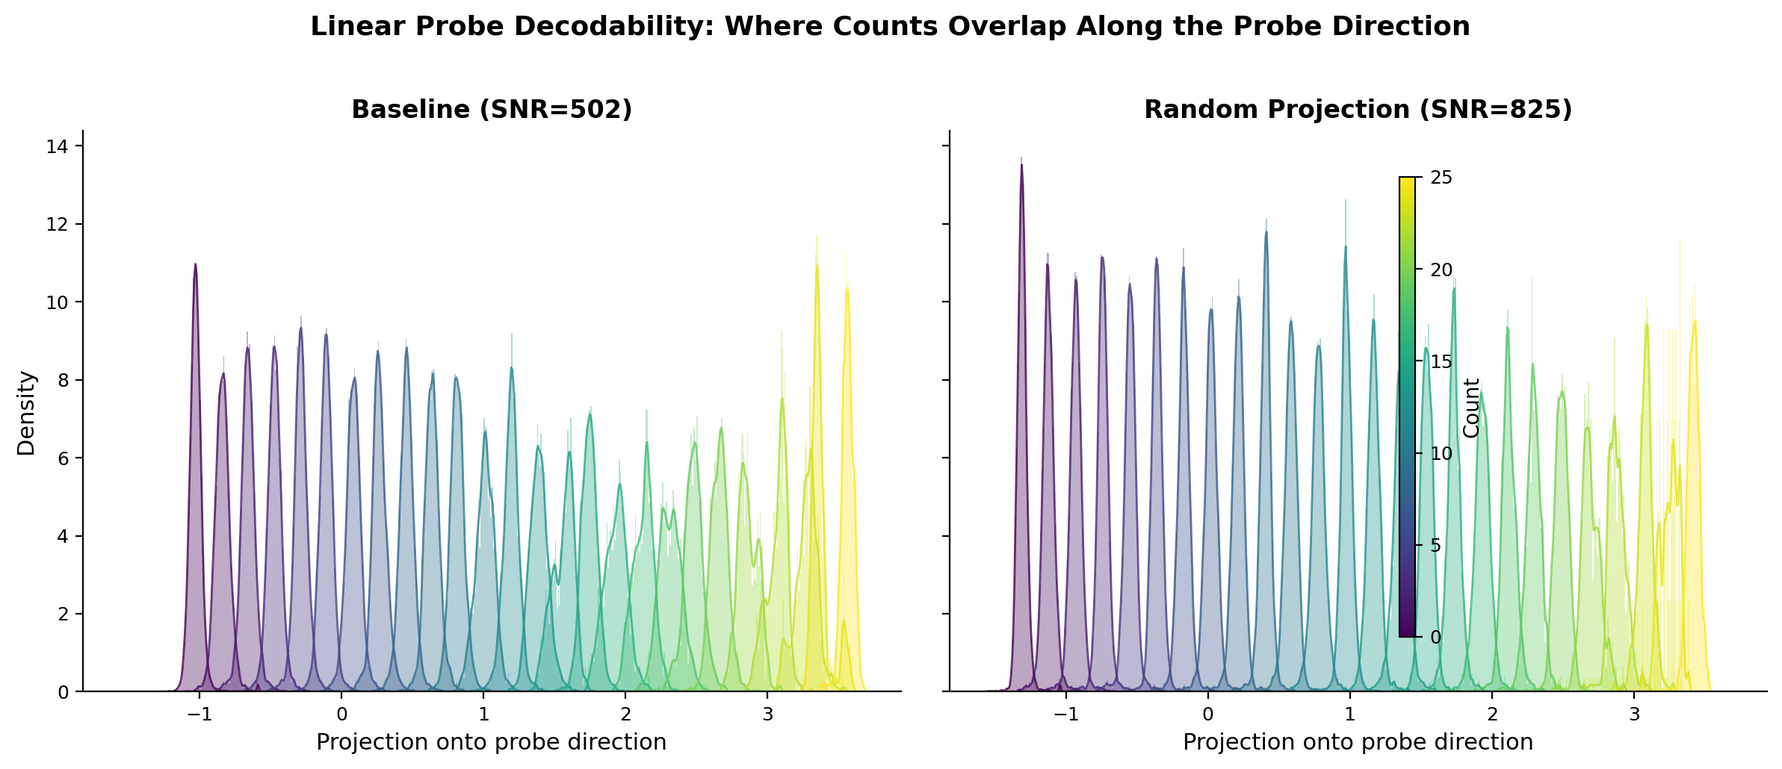
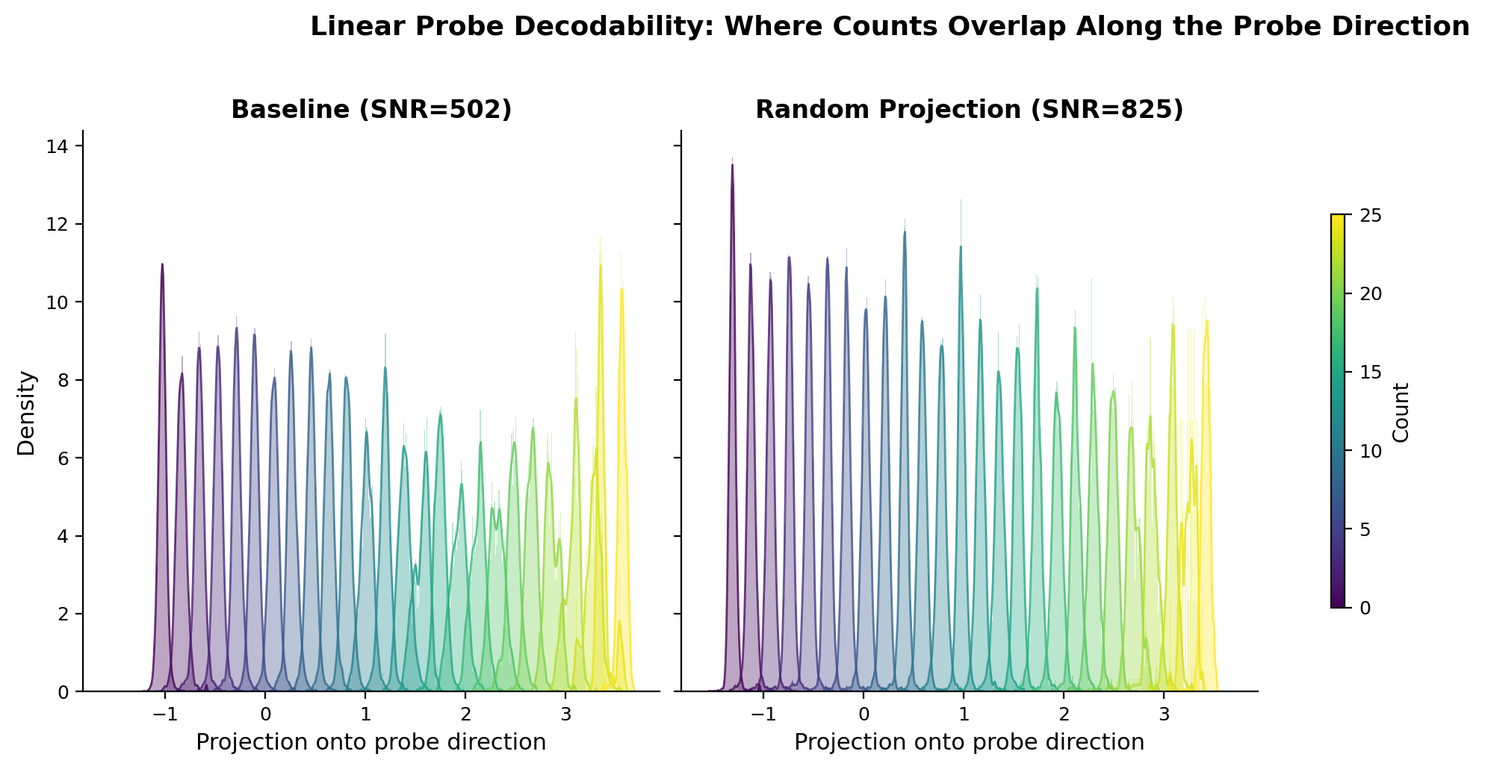
fix: move color bar outside plot area in probe figures
The Count color bar was overlapping data in probe_histograms and
probe_vs_noise figures. Reserve 12% right margin via tight_layout
rect and increase colorbar pad. Also includes external README edits.

diff --git a/scripts/visualize_probe_decodability.py b/scripts/visualize_probe_decodability.py
@@ -159,15 +159,15 @@ def fig1_probe_histograms(baseline, randproj, output_dir):
     for ax in [ax_b, ax_r]:
         ax.set_xlim(all_proj.min() - margin, all_proj.max() + margin)
 
-    # Colorbar
-    sm = plt.cm.ScalarMappable(cmap='viridis', norm=mcolors.Normalize(0, 25))
-    sm.set_array([])
-    cbar = fig.colorbar(sm, ax=[ax_b, ax_r], shrink=0.8, pad=0.02, aspect=30)
-    cbar.set_label('Count', fontsize=10)
-
     fig.suptitle('Linear Probe Decodability: Where Counts Overlap Along the Probe Direction',
                  fontsize=13, fontweight='bold', y=1.02)
-    plt.tight_layout()
+    plt.tight_layout(rect=[0, 0, 0.88, 1])
+
+    # Colorbar — placed after tight_layout, with enough pad to sit outside plots
+    sm = plt.cm.ScalarMappable(cmap='viridis', norm=mcolors.Normalize(0, 25))
+    sm.set_array([])
+    cbar = fig.colorbar(sm, ax=[ax_b, ax_r], shrink=0.7, pad=0.05, aspect=30)
+    cbar.set_label('Count', fontsize=10)
 
     for ext in ['png', 'pdf']:
         fig.savefig(output_dir / f'probe_histograms.{ext}',
@@ -219,15 +219,15 @@ def fig2_probe_vs_noise(baseline, randproj, output_dir):
         ax.set_xlim(all_x.min() - x_margin, all_x.max() + x_margin)
         ax.set_ylim(all_y.min() - y_margin, all_y.max() + y_margin)
 
-    # Colorbar
-    sm = plt.cm.ScalarMappable(cmap='viridis', norm=mcolors.Normalize(0, 25))
-    sm.set_array([])
-    cbar = fig.colorbar(sm, ax=[ax_b, ax_r], shrink=0.8, pad=0.02, aspect=30)
-    cbar.set_label('Count', fontsize=10)
-
     fig.suptitle('Count Signal vs Noise: Factorized Columns (right) vs Entangled Clouds (left)',
                  fontsize=13, fontweight='bold', y=1.02)
-    plt.tight_layout()
+    plt.tight_layout(rect=[0, 0, 0.88, 1])
+
+    # Colorbar — placed after tight_layout, with enough pad to sit outside plots
+    sm = plt.cm.ScalarMappable(cmap='viridis', norm=mcolors.Normalize(0, 25))
+    sm.set_array([])
+    cbar = fig.colorbar(sm, ax=[ax_b, ax_r], shrink=0.7, pad=0.05, aspect=30)
+    cbar.set_label('Count', fontsize=10)
 
     for ext in ['png', 'pdf']:
         fig.savefig(output_dir / f'probe_vs_noise.{ext}',

diff --git a/README.md b/README.md
@@ -9,6 +9,7 @@ We built a simple 2D world where a bot picks up blobs and places them on a grid.
 Inside the model's 512-dimensional hidden state, a **number line emerges**.
 
 Not approximately. A geometrically precise 1D arc where each position corresponds to a count, verified with tools from pure mathematics:
+
 - **Persistent homology** confirms it's a line (not a loop, not a surface) &mdash; Betti numbers &beta;<sub>0</sub>=1, &beta;<sub>1</sub>=0
 - **Geodesic analysis** confirms the spacing is uniform (like marks on a ruler) &mdash; arc-length R&sup2;=0.998
 - **Representational similarity analysis** confirms the ordering is correct &mdash; RSA=0.982
@@ -31,27 +32,27 @@ Yes. A linear probe (a single matrix multiply plus bias) applied to the 512-dime
 
 - **Topology is correct**: Persistent homology gives &beta;<sub>0</sub>=1 (one connected component) and &beta;<sub>1</sub>=0 (no loops). This is the topology of a line segment, not a circle, not a surface, not a disconnected set.
 - **Spacing is uniform**: The geodesic distance between consecutive count centroids is constant. This isn't just "the centroids are in the right order" &mdash; the distance from count 5 to count 6 is the same as the distance from count 20 to count 21. Arc-length R&sup2;=0.998 across 6 independent training seeds.
-- **The metric is novel**: We developed Geodesic Homogeneity Error (GHE) to measure this properly. Standard Euclidean metrics reported high error because the manifold curves through 512-dimensional space. GHE follows the curve and reveals uniform spacing. Mean GHE=0.329&plusmn;0.027 across 6 seeds (threshold: <0.5).
+- **The metric is novel**: We developed Geodesic Homogeneity Error (GHE) to measure this properly. Standard Euclidean metrics reported high error because the manifold curves through 512-dimensional space. GHE follows the curve and reveals approximately uniform spacing. Mean GHE=0.329&plusmn;0.027 across 6 seeds (threshold: <0.5).
 
 ## Robustness: We Tried to Break It
 
-Every row in this table is a separate training run (200K steps, ~4 hours on an RTX 4090). Every single one produced a valid number line.
+Every row in this table is a separate training run (50K–300K steps). Every single one produced a valid number line.
 
-| Condition | What we changed | GHE | Topology | RSA |
-|:---|:---|:---:|:---:|:---:|
-| **Grid baseline** (6 seeds) | Nothing &mdash; control condition | 0.329&plusmn;0.027 | &beta;<sub>0</sub>=1, &beta;<sub>1</sub>=0 | 0.982 |
-| **Line arrangement** | Blobs start in a line instead of scattered | 0.288 | &beta;<sub>0</sub>=1, &beta;<sub>1</sub>=0 | 0.982 |
-| **Scatter arrangement** | Blobs start at random positions | 0.334 | &beta;<sub>0</sub>=1, &beta;<sub>1</sub>=0 | 0.980 |
-| **Circle arrangement** | Blobs start in a ring | 0.394 | &beta;<sub>0</sub>=1, &beta;<sub>1</sub>=0 | 0.978 |
-| **No count signal** | Masked the count from observations | 0.336&plusmn;0.091 | &beta;<sub>0</sub>=1, &beta;<sub>1</sub>=0 | 0.981 |
-| **No slots + no count** | Masked both grid assignments and count | 0.344&plusmn;0.045 | &beta;<sub>0</sub>=1, &beta;<sub>1</sub>=0 | 0.981 |
-| **Shuffled + starved** | Scrambled blob identities every frame, masked grid and count | 0.367&plusmn;0.081 | &beta;<sub>0</sub>=1, &beta;<sub>1</sub>=0 | 0.985 |
-| **Random projection** (3 seeds) | Multiplied observations by a random orthogonal matrix | 0.326&plusmn;0.063 | &beta;<sub>0</sub>=1, &beta;<sub>1</sub>=0 | 0.983 |
-| **Random permutation** (3 seeds) | Shuffled the order of observation dimensions | 0.346&plusmn;0.052 | &beta;<sub>0</sub>=1, &beta;<sub>1</sub>=0 | 0.981 |
-| **LSTM** | Replaced DreamerV3 with a simple LSTM | 0.379 | &beta;<sub>0</sub>=1, &beta;<sub>1</sub>=0 | 0.980 |
-| **Embodied agent** | Agent learns to steer and gather autonomously | 0.443 | &beta;<sub>0</sub>=1, &beta;<sub>1</sub>=0 | 0.806 |
-| **Multi-dim D=2** | Gathering in 2D (mixed training across 2D-5D) | 0.439 | &beta;<sub>0</sub>=1, &beta;<sub>1</sub>=0 | 0.943 |
-| **Multi-dim D=3** | Gathering in 3D | 0.325 | &beta;<sub>0</sub>=1, &beta;<sub>1</sub>=0 | 0.954 |
+| Condition                        | What we changed                                              |        GHE         |                  Topology                  |  RSA  |
+| :------------------------------- | :----------------------------------------------------------- | :----------------: | :----------------------------------------: | :---: |
+| **Grid baseline** (6 seeds)      | Nothing &mdash; control condition                            | 0.329&plusmn;0.027 | &beta;<sub>0</sub>=1, &beta;<sub>1</sub>=0 | 0.982 |
+| **Line arrangement**             | Blobs start in a line instead of scattered                   |       0.288        | &beta;<sub>0</sub>=1, &beta;<sub>1</sub>=0 | 0.982 |
+| **Scatter arrangement**          | Blobs start at random positions                              |       0.334        | &beta;<sub>0</sub>=1, &beta;<sub>1</sub>=0 | 0.980 |
+| **Circle arrangement**           | Blobs start in a ring                                        |       0.394        | &beta;<sub>0</sub>=1, &beta;<sub>1</sub>=0 | 0.978 |
+| **No count signal**              | Masked the count from observations                           | 0.336&plusmn;0.091 | &beta;<sub>0</sub>=1, &beta;<sub>1</sub>=0 | 0.981 |
+| **No slots + no count**          | Masked both grid assignments and count                       | 0.344&plusmn;0.045 | &beta;<sub>0</sub>=1, &beta;<sub>1</sub>=0 | 0.981 |
+| **Shuffled + starved**           | Scrambled blob identities every frame, masked grid and count | 0.367&plusmn;0.081 | &beta;<sub>0</sub>=1, &beta;<sub>1</sub>=0 | 0.985 |
+| **Random projection** (3 seeds)  | Multiplied observations by a random orthogonal matrix        | 0.326&plusmn;0.063 | &beta;<sub>0</sub>=1, &beta;<sub>1</sub>=0 | 0.983 |
+| **Random permutation** (3 seeds) | Shuffled the order of observation dimensions                 | 0.346&plusmn;0.052 | &beta;<sub>0</sub>=1, &beta;<sub>1</sub>=0 | 0.981 |
+| **LSTM**                         | Replaced DreamerV3 with a simple LSTM                        |       0.379        | &beta;<sub>0</sub>=1, &beta;<sub>1</sub>=0 | 0.980 |
+| **Embodied agent**               | Agent learns to steer and gather autonomously                |       0.443        | &beta;<sub>0</sub>=1, &beta;<sub>1</sub>=0 | 0.806 |
+| **Multi-dim D=2**                | Gathering in 2D (mixed training across 2D-5D)                |       0.439        | &beta;<sub>0</sub>=1, &beta;<sub>1</sub>=0 | 0.943 |
+| **Multi-dim D=3**                | Gathering in 3D                                              |       0.325        | &beta;<sub>0</sub>=1, &beta;<sub>1</sub>=0 | 0.954 |
 
 The manifold is not an accident. It's the natural representation for a system that needs to predict what happens when objects are gathered one at a time.
 
@@ -61,16 +62,14 @@ This was the most unexpected finding of the project.
 
 We multiplied the 82-dimensional observation vector by a random orthogonal matrix before feeding it to the model. This preserves all pairwise distances between observations (it's a rotation in high-dimensional space) but destroys all spatial semantics &mdash; dimension 1 is no longer "bot x-position," it's a meaningless blend of everything.
 
-The model should have performed identically. Information theory says the task is the same. Instead:
-
 **The random projection model performed dramatically better at real-time count tracking.**
 
-| Metric | Baseline | Random Projection |
-|:---|:---:|:---:|
-| GHE (manifold quality) | 0.329 | 0.326 |
-| Probe SNR (signal-to-noise) | 502 | 825 |
-| Live probe accuracy | 56% exact | 99% exact |
-| PaCMAP R&sup2; (multi-scale structure) | 0.651 | 0.976 |
+| Metric                                 | Baseline  | Random Projection |
+| :------------------------------------- | :-------: | :---------------: |
+| GHE (manifold quality)                 |   0.329   |       0.326       |
+| Probe SNR (signal-to-noise)            |    502    |        825        |
+| Live probe accuracy                    | 56% exact |     99% exact     |
+| PaCMAP R&sup2; (multi-scale structure) |   0.651   |       0.976       |
 
 The standard evaluation metrics (GHE, topology, RSA) showed no difference. They declared the two models equivalent. Only when we built a real-time visualization and watched the models actually predict did we discover the gap. The baseline model tracked counts with a noticeable wobble &mdash; it would lag behind transitions and oscillate between adjacent counts. The random projection model snapped to each count precisely.
 
@@ -106,7 +105,7 @@ We parameterized the world so the bot gathers blobs in 2D, 3D, 4D, or 5D space, 
 
 **The neurons are completely different.** Linear probe transfer between dimensionalities fails catastrophically (mean R&sup2; = -0.27). Hidden state anatomy reveals the model uses entirely different neurons to count in each dimensionality &mdash; dimension 503 for 2D, dimension 115 for 3D, dimension 188 for 4D, dimension 240 for 5D. Zero overlap in the top-20 counting dimensions across any pair.
 
-**The geometry is identical.** Gromov-Wasserstein distance (a metric that compares the *shape* of two manifolds without requiring point correspondence) reveals that the counting structures at different dimensionalities are geometrically indistinguishable &mdash; cross-dimensional GW distances (0.004) are actually *below* the self-comparison baseline (0.010). The model builds the same ruler in different corners of its hidden state.
+**The geometry is identical.** Gromov-Wasserstein distance (a metric that compares the _shape_ of two manifolds without requiring point correspondence) reveals that the counting structures at different dimensionalities are geometrically indistinguishable &mdash; cross-dimensional GW distances (0.004) are actually _below_ the self-comparison baseline (0.010). The model builds the same ruler in different corners of its hidden state.
 
 The concept is dimension-invariant. The implementation is not.
 
@@ -114,28 +113,28 @@ The concept is dimension-invariant. The implementation is not.
 
 What does "+1" look like inside the model?
 
-We characterized the step vectors &mdash; the change in hidden state when count goes from *n* to *n*+1 &mdash; across the entire manifold. Key findings:
+We characterized the step vectors &mdash; the change in hidden state when count goes from _n_ to _n_+1 &mdash; across the entire manifold. Key findings:
 
 - **It's not a single direction.** The +1 operation rotates through 512-dimensional space, requiring 11 principal components to capture 90% of its variance. The step from 0&rarr;1 and the step from 24&rarr;25 point in nearly opposite directions (cosine similarity near zero).
-- **But the step sizes are uniform.** Despite rotating through high-dimensional space, every +1 step covers the same geodesic distance. The manifold has constant speed but varying curvature &mdash; like a road that turns but maintains a steady 60 mph.
-- **The model anticipates.** The hidden state begins shifting toward the next count 2-50 timesteps *before* a blob actually lands on the grid. The anticipation interval is proportional to the blob's travel distance. The model predicts counting events before they happen.
+- **But the step sizes are uniform.** Despite rotating through high-dimensional space, every +1 step covers the same geodesic distance. The manifold has constant speed but varying curvature.
+- **The model anticipates.** The hidden state begins shifting toward the next count 2-50 timesteps _before_ a blob actually lands on the grid. The anticipation interval is proportional to the blob's travel distance. The model predicts counting events before they happen.
 - **The prior knows the count.** The model's internal prediction (before seeing the current observation) achieves R&sup2;=0.956 on count. The counting manifold lives in the recurrent dynamics &mdash; the model's accumulated memory &mdash; not in the current observation. The observation barely adds information. The model has internalized counting so thoroughly that it rarely needs to check.
 
 ## The Measurement Battery
 
 Standard metrics missed important differences between our models. We built a comprehensive toolkit:
 
-| Tool | What it measures | What it found |
-|:---|:---|:---|
-| **Persistent homology** | Topological structure (Betti numbers) | &beta;<sub>0</sub>=1, &beta;<sub>1</sub>=0 in every condition tested |
-| **Geodesic Homogeneity Error** | Uniformity of successor spacing | GHE<0.5 in all conditions; replaced Euclidean HE which was measuring curvature, not error |
-| **Representational Similarity Analysis** | Ordinal structure preservation | RSA>0.97 consistently |
-| **Probe SNR** | Linear decodability quality | Revealed 56% vs 99% accuracy gap invisible to all other metrics |
-| **PaCMAP / TriMap R&sup2;** | Multi-scale projection fidelity | PaCMAP R&sup2;: 0.651 (baseline) vs 0.976 (random projection) |
-| **Gromov-Wasserstein distance** | Cross-condition geometry comparison | Proved identical geometry in disjoint subspaces |
-| **Hidden state anatomy** | Per-dimension counting contribution | 1-4 dims carry 95% of counting signal; completely different dims per condition |
-| **Transition detectors** | Temporal dynamics at count changes | 100+ dimensions respond per transition; anticipation precedes blob landing |
-| **Prior vs posterior** | Causal prediction analysis | R&sup2;=0.956 from recurrent state alone |
+| Tool                                     | What it measures                      | What it found                                                                             |
+| :--------------------------------------- | :------------------------------------ | :---------------------------------------------------------------------------------------- |
+| **Persistent homology**                  | Topological structure (Betti numbers) | &beta;<sub>0</sub>=1, &beta;<sub>1</sub>=0 in every condition tested                      |
+| **Geodesic Homogeneity Error**           | Uniformity of successor spacing       | GHE<0.5 in all conditions; replaced Euclidean HE which was measuring curvature, not error |
+| **Representational Similarity Analysis** | Ordinal structure preservation        | RSA>0.97 consistently                                                                     |
+| **Probe SNR**                            | Linear decodability quality           | Revealed 56% vs 99% accuracy gap invisible to all other metrics                           |
+| **PaCMAP / TriMap R&sup2;**              | Multi-scale projection fidelity       | PaCMAP R&sup2;: 0.651 (baseline) vs 0.976 (random projection)                             |
+| **Gromov-Wasserstein distance**          | Cross-condition geometry comparison   | Proved identical geometry in disjoint subspaces                                           |
+| **Hidden state anatomy**                 | Per-dimension counting contribution   | 1-4 dims carry 95% of counting signal; completely different dims per condition            |
+| **Transition detectors**                 | Temporal dynamics at count changes    | 100+ dimensions respond per transition; anticipation precedes blob landing                |
+| **Prior vs posterior**                   | Causal prediction analysis            | R&sup2;=0.956 from recurrent state alone                                                  |
 
 The probe SNR finding &mdash; where a transformation that doesn't change standard metrics dramatically improves practical performance &mdash; is, to our knowledge, undocumented in the representation learning literature.
 
@@ -170,7 +169,7 @@ Controls: Space (play/pause), arrows (step/jump), mouse drag (rotate 3D), D (dim
 ### Requirements
 
 ```bash
-pip install -r requirements.txt
+pip install -r relike aquirements.txt
 ```
 
 ### Training a model (GPU recommended, ~4 hours on RTX 4090)
@@ -253,19 +252,19 @@ We believe this style of collaboration &mdash; where AI handles implementation a
 
 **Hafner et al. (2023)** &mdash; [Mastering Diverse Domains through World Models](https://arxiv.org/abs/2301.04104). DreamerV3. The world-model architecture this project builds on. DreamerV3 learns by building an internal simulation of its environment and practicing inside that simulation. It achieved human-level performance across dozens of games without changing any settings. We used it because it's small enough to analyze completely (~12M parameters) while being powerful enough to learn complex behavior.
 
-**Dehaene (2011)** &mdash; *The Number Sense*. The foundational book on how brains represent number. Dehaene's work established that humans and many animals have an innate approximate number system &mdash; a mental number line where larger numbers are more compressed (Weber-Fechner law). Our model develops a number line too, but with uniform spacing rather than logarithmic compression, suggesting a different origin (discrete gathering vs. approximate estimation).
+**Dehaene (2011)** &mdash; _The Number Sense_. The foundational book on how brains represent number. Dehaene's work established that humans and many animals have an innate approximate number system &mdash; a mental number line where larger numbers are more compressed (Weber-Fechner law). Our model develops a number line too, but with uniform spacing rather than logarithmic compression, suggesting a different origin (discrete gathering vs. approximate estimation).
 
-**Lakoff & N&uacute;&ntilde;ez (2000)** &mdash; *Where Mathematics Comes From*. The argument that mathematical concepts are grounded in physical experience and metaphor, not Platonic abstraction. Our finding that counting emerges from gathering &mdash; without any mathematical instruction &mdash; provides computational evidence for this view.
+**Lakoff & N&uacute;&ntilde;ez (2000)** &mdash; _Where Mathematics Comes From_. The argument that mathematical concepts are grounded in physical experience and metaphor, not Platonic abstraction. Our finding that counting emerges from gathering &mdash; without any mathematical instruction &mdash; provides computational evidence for this view.
 
 **Nieder & Dehaene (2009)** &mdash; [Representation of Number in the Brain](https://doi.org/10.1146/annurev.neuro.051508.135550). Comprehensive review of how neurons in prefrontal and parietal cortex encode number. Individual neurons show tuned responses to specific numerosities, with tuning curves that overlap (similar to our probe histograms). Our model's hidden state dimensions show analogous tuning.
 
 **Whittington et al. (2020)** &mdash; [The Tolman-Eichenbaum Machine](https://doi.org/10.1016/j.cell.2020.10.024). Shows how hippocampal-entorhinal circuits learn relational structure. Relevant because our model's counting manifold is a kind of cognitive map &mdash; a structured internal representation of an abstract relationship (numerical order), learned from experience.
 
-**Churchland et al. (2012)** &mdash; [Neural Population Dynamics During Reaching](https://doi.org/10.1038/nature11129). Introduced jPCA for finding rotational dynamics in neural populations. We applied jPCA to our model's hidden states and found the counting manifold is *not* rotational (rotation fraction = -0.14), confirming it's fundamentally different from motor cortex dynamics.
+**Churchland et al. (2012)** &mdash; [Neural Population Dynamics During Reaching](https://doi.org/10.1038/nature11129). Introduced jPCA for finding rotational dynamics in neural populations. We applied jPCA to our model's hidden states and found the counting manifold is _not_ rotational (rotation fraction = -0.14), confirming it's fundamentally different from motor cortex dynamics.
 
-**M&eacute;moli (2011)** &mdash; [Gromov-Wasserstein Distances and the Metric Approach to Object Matching](https://doi.org/10.1007/s10208-011-9093-5). The mathematical framework behind our cross-dimensional geometry comparison. Gromov-Wasserstein distance compares the *shape* of two metric spaces without requiring point-to-point correspondence. This is how we proved the counting manifolds at different dimensionalities are geometrically identical despite using completely different neurons.
+**M&eacute;moli (2011)** &mdash; [Gromov-Wasserstein Distances and the Metric Approach to Object Matching](https://doi.org/10.1007/s10208-011-9093-5). The mathematical framework behind our cross-dimensional geometry comparison. Gromov-Wasserstein distance compares the _shape_ of two metric spaces without requiring point-to-point correspondence. This is how we proved the counting manifolds at different dimensionalities are geometrically identical despite using completely different neurons.
 
-**Edelsbrunner & Harer (2010)** &mdash; *Computational Topology*. The textbook on persistent homology, the tool we use to verify that the counting manifold has the topology of a line (&beta;<sub>0</sub>=1, &beta;<sub>1</sub>=0). Persistent homology tracks how topological features (connected components, loops, voids) appear and disappear as you vary a scale parameter.
+**Edelsbrunner & Harer (2010)** &mdash; _Computational Topology_. The textbook on persistent homology, the tool we use to verify that the counting manifold has the topology of a line (&beta;<sub>0</sub>=1, &beta;<sub>1</sub>=0). Persistent homology tracks how topological features (connected components, loops, voids) appear and disappear as you vary a scale parameter.
 
 **Kriegeskorte et al. (2008)** &mdash; [Representational Similarity Analysis](https://doi.org/10.3389/neuro.06.004.2008). The framework for comparing representational geometry across systems. RSA compares distance matrices rather than individual representations, making it possible to ask "do these two systems organize information the same way?" We use it to confirm ordinal structure preservation.
 
@@ -275,7 +274,7 @@ We believe this style of collaboration &mdash; where AI handles implementation a
 
 **Spelke (2000)** &mdash; [Core Knowledge](https://doi.org/10.1037/0003-066X.55.11.1233). Elizabeth Spelke's theory that humans are born with core knowledge systems for objects, number, space, and agents. Our model's ability to develop numerical structure from pure observation parallels the idea of a core number system &mdash; though our model builds it from experience rather than having it innately.
 
-**Kim & Mnih (2018)** &mdash; [Disentangled Representations](https://arxiv.org/abs/1802.04942). Work on learning factorized representations where different factors of variation are separated. Our random projection finding is relevant: the scrambled model achieves better factorization (count signal cleanly separated from spatial noise) than the baseline, suggesting that input structure can *hinder* disentanglement.
+**Kim & Mnih (2018)** &mdash; [Disentangled Representations](https://arxiv.org/abs/1802.04942). Work on learning factorized representations where different factors of variation are separated. Our random projection finding is relevant: the scrambled model achieves better factorization (count signal cleanly separated from spatial noise) than the baseline, suggesting that input structure can _hinder_ disentanglement.
 
 **Saxe et al. (2019)** &mdash; [A Mathematical Theory of Semantic Development](https://doi.org/10.1073/pnas.1820226116). Shows how neural networks can develop structured internal representations through learning. Provides theoretical grounding for why a next-state prediction objective leads to semantically meaningful representations.
 
@@ -283,6 +282,6 @@ We believe this style of collaboration &mdash; where AI handles implementation a
 
 ---
 
-*This project was built with [Claude Code](https://claude.ai/code) as the primary implementation agent.*
+_This project was built with [Claude Code](https://claude.ai/code) as the primary implementation agent._
 
-*Counting, it appears, is not taught. It is gathered.*
+_Counting, it appears, is not taught. It is gathered._
